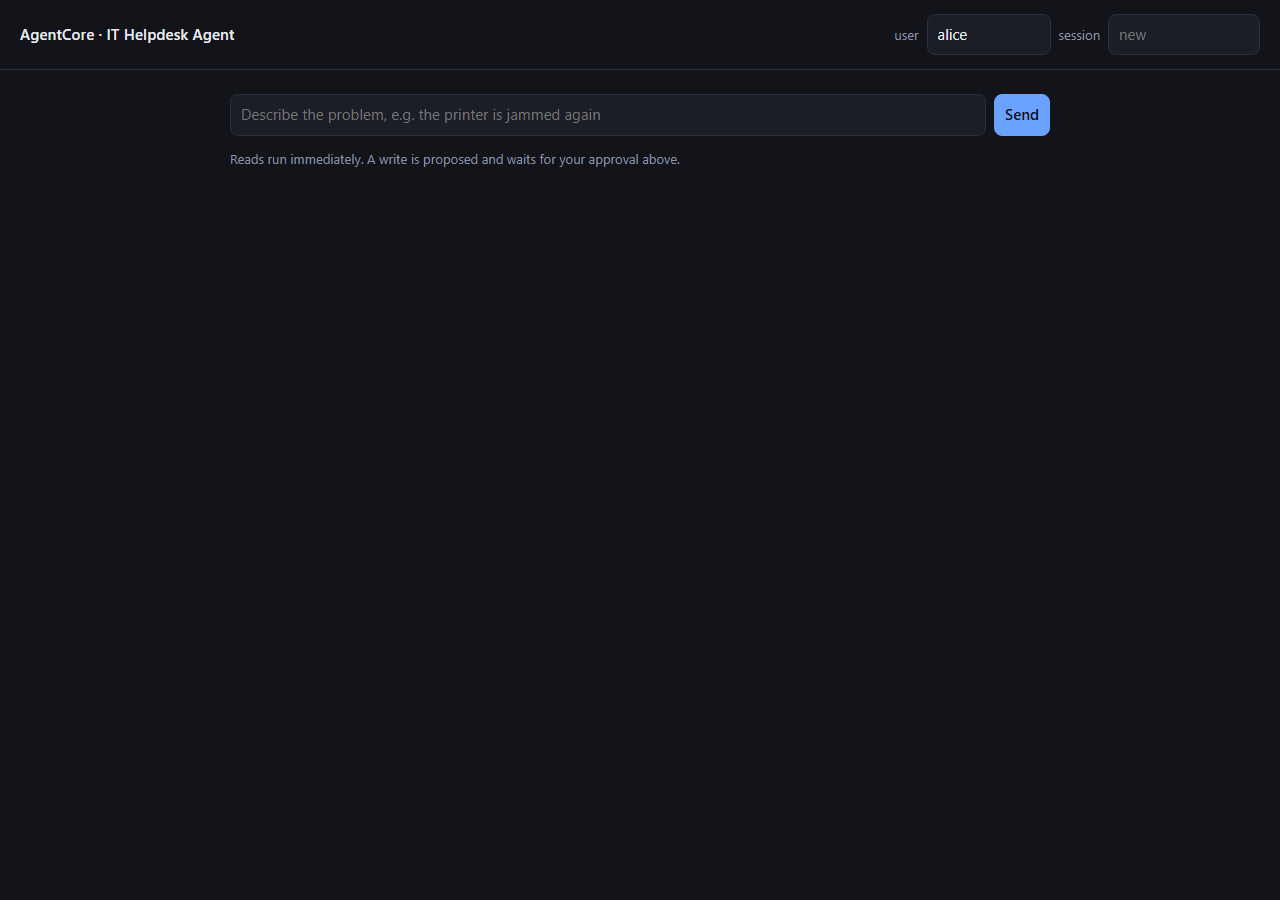
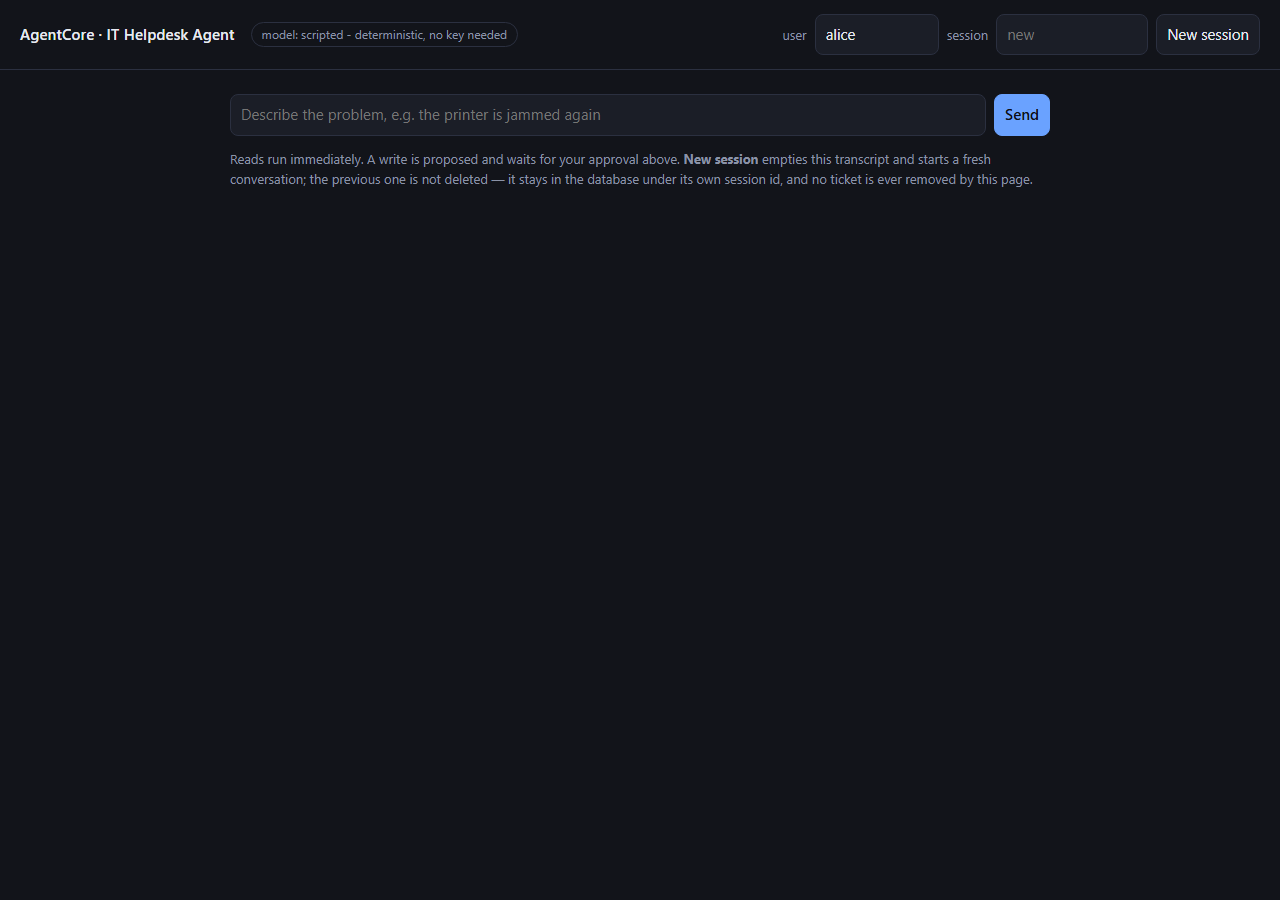
Fix the transcript order, and say which model is answering
Reported from a screenshot of a real run, and both halves are real defects rather than opinions.

The transcript was built by prepending every turn, so it rendered newest-first: the newest exchange
appeared above the one before it, and - because an agent reply is rendered after the prompt it
answers - every tool row sat *above* the message that caused it. The result read as though the agent
had called the tool for the next question: the turn for "find tickets about the vpn" displayed a
`get_ticket TCK-1002` call, and the turn for "What is the status of TCK-1002?" displayed the printer
search. The backend was correct throughout; the page was lying about it, which is worse than an
empty transcript, because a wrong tool row looks like a wrong tool choice.

Turns are now appended, in the order a conversation is read, and a new turn scrolls itself into
view. Verified by driving the page with the capture task in `devtasks` - which asserts each step
rather than only photographing it - and by reading the regenerated frames back.

The page also had no way to start a clean conversation, although HOW-TO-TEST.md told the reader to
click "new session". Added: a **New session** button that empties the transcript and mints a new
session id. It deletes nothing - the previous conversation keeps its id and stays in the database,
and no ticket is touched, because the agent has no tool that deletes one. The answer to "can I
[…]

diff --git a/services/agent/src/agent_service/ui/page.py b/services/agent/src/agent_service/ui/page.py
@@ -97,17 +97,27 @@ INDEX_HEAD = """<!DOCTYPE html>
   .approval .row { display: flex; gap: 8px; margin-top: 10px; }
   .banner { border-radius: 8px; padding: 10px 12px; margin: 14px 0; border: 1px solid var(--bad); color: var(--bad); font-size: 14px; }
   .hint { color: var(--muted); font-size: 13px; }
+  .chip { font-size: 12px; color: var(--muted); border: 1px solid var(--line); border-radius: 999px; padding: 2px 10px; white-space: nowrap; }
   [hidden] { display: none !important; }
 </style>
 </head>
 <body>
 <header>
   <h1>AgentCore &middot; IT Helpdesk Agent</h1>
+  <!-- Which model is answering, filled from /api/info on load. Without it a reviewer reads the
+       deterministic provider's canned sentences and has no way to tell them from a real model's -
+       the wrong conclusion to leave someone with, since the provider is one environment variable
+       away from a live one (README section c). -->
+  <span id="model" class="chip" hidden>model: &hellip;</span>
   <div class="who">
     <label for="user">user</label>
     <input id="user" value="alice" size="10" autocomplete="off">
     <label for="session">session</label>
     <input id="session" value="" size="14" placeholder="new" autocomplete="off">
+    <!-- Starts a fresh conversation: clears the transcript on screen and mints a new session id.
+         It deletes nothing on the server, and it cannot delete a ticket, because the agent has no
+         tool that deletes one. -->
+    <button type="button" id="newsession">New session</button>
   </div>
 </header>
 
@@ -125,7 +135,10 @@ INDEX_HEAD = """<!DOCTYPE html>
          when there is nothing to stop, and the 404 that follows reads like a broken button. -->
     <button class="bad" type="button" id="cancel" hidden>Cancel</button>
   </form>
-  <p class="hint">Reads run immediately. A write is proposed and waits for your approval above.</p>
+  <p class="hint">Reads run immediately. A write is proposed and waits for your approval above.
+    <strong>New session</strong> empties this transcript and starts a fresh conversation; the
+    previous one is not deleted — it stays in the database under its own session id, and no ticket
+    is ever removed by this page.</p>
 </main>
 """
 #: The script, kept separate from the markup only so the two are readable in one file each.
@@ -147,6 +160,8 @@ INDEX_SCRIPT = r"""
   var sessionField = document.getElementById("session");
   var sendButton = form.querySelector("button[type=submit]");
   var cancelButton = document.getElementById("cancel");
+  var newSessionButton = document.getElementById("newsession");
+  var modelChip = document.getElementById("model");
 
   // A session id is minted here rather than left for the server to assign, because cancelling
   // needs to name the conversation *while* the turn is running — and until the response arrived
@@ -251,7 +266,19 @@ INDEX_SCRIPT = r"""
       if (bits.length) turn.appendChild(el("div", "meta", bits.join(" - ")));
     }
 
-    transcript.insertBefore(turn, transcript.firstChild);
+    appendTurn(turn);
+  }
+
+  // Appended, not prepended, so the transcript reads top to bottom the way a conversation does.
+  // This used to insert before the first child, which put every new turn at the *top*: the newest
+  // exchange appeared above the one before it, and - because a reply is rendered after the prompt
+  // it answers - each agent block sat above the message that caused it. The transcript read as
+  // though the agent had answered the *next* question, which is how it was reported: "why do we
+  // have history down-up?" A tool row under the wrong prompt is worse than no transcript at all,
+  // because it looks like the agent called the wrong tool.
+  function appendTurn(turn) {
+    transcript.appendChild(turn);
+    turn.scrollIntoView({ block: "end" });
   }
 
   function renderApproval(proposal) {
@@ -291,7 +318,7 @@ INDEX_SCRIPT = r"""
         if (result.replayed) {
           turn.appendChild(el("div", "meta", "The backend reported this was already done."));
         }
-        transcript.insertBefore(turn, transcript.firstChild);
+        appendTurn(turn);
       }).catch(function (error) {
         approve.disabled = false;
         decline.disabled = false;
@@ -374,8 +401,41 @@ INDEX_SCRIPT = r"""
     }
   });
 
+  // A fresh conversation: an empty transcript and a new session id. Nothing is deleted - the
+  // previous conversation keeps its id and is still readable by setting the session field back to
+  // it - and no ticket is touched, because removing a ticket is not something this agent can do.
+  newSessionButton.addEventListener("click", function () {
+    clearError();
+    transcript.textContent = "";
+    pending.textContent = "";
+    sessionField.value = mintSession();
+    loadPending();
+    message.focus();
+  });
+
+  // Which model is answering, so the deterministic provider's sentences are not mistaken for the
+  // product's best effort. Silent on failure and the chip stays hidden: the page has to work
+  // whether or not this endpoint exists.
+  async function loadInfo() {
+    try {
+      var info = await json("api/info");
+      var label = info.provider;
+      if (info.deterministic) {
+        label += " - deterministic, no key needed";
+      } else if (info.model_id) {
+        label += " - " + info.model_id;
+      }
+      modelChip.textContent = "model: " + label;
+      modelChip.title = info.detail || "";
+      modelChip.hidden = false;
+    } catch (error) {
+      modelChip.hidden = true;
+    }
+  }
+
   userField.addEventListener("change", loadPending);
   loadPending();
+  loadInfo();
   message.focus();
 })();
 </script>

diff --git a/services/agent/src/agent_service/api/ui_routes.py b/services/agent/src/agent_service/api/ui_routes.py
@@ -1,7 +1,7 @@
-"""The two routes the page needs that the contract does not already provide.
+"""The routes the page needs that the contract does not already provide.
 
 Sending a message and answering a proposal are both already in the Runtime contract, so the page
-calls them directly and this module has almost nothing to add. Only two things were missing, and
+calls them directly and this module has almost nothing to add. Only three things were missing, and
 each had a reason.
 
 **``GET /`` serves the page.** Inline rather than mounted from a directory: the HTML is a Python
@@ -20,6 +20,12 @@ defining a second shape for a proposal. Two shapes for one thing is how a field 
 of them and not the other, and the page would then render a proposal differently depending on
 which endpoint produced it.
 
+**``GET /api/info`` says which model is answering.** Also for a person rather than for a machine:
+the default provider is deterministic, so its replies are canned by design, and without this the
+page gives a reader no way to know that the wording is a rule rather than a model — or that a real
+model is one environment variable away. It reports the provider, the model if one is named, and
+whether a credential is present; it reports no credential itself.
+
 The handler is injected exactly as the invocation and decision handlers are, so this module can be
 tested without a database and the app still starts without one.
 """
@@ -28,7 +34,7 @@ from __future__ import annotations
 
 from collections.abc import Awaitable, Callable, Sequence
 
-from fastapi import APIRouter, Query
+from fastapi import APIRouter, Query, Request
 from fastapi.responses import HTMLResponse, JSONResponse
 from pydantic import BaseModel, ConfigDict
 
@@ -50,8 +56,46 @@ class ApprovalList(BaseModel):
     approvals: list[PendingApproval] = []
 
 
+class ServiceInfo(BaseModel):
+    """Which model is answering, for the page's own header.
+
+    Added because the default provider is deterministic. A reviewer who does not know that reads
+    canned sentences — "Done. I used 1 tool call(s) to answer." — and has no way to tell them from
+    a live model's, so the page says it outright, and says how to change it. That is the same
+    answer the README gives, shown where the question is actually asked.
+    """
+
+    model_config = ConfigDict(extra="ignore")
+
+    provider: str
+    model_id: str | None = None
+    #: True when the provider answers from rules in this repository rather than from a model.
+    deterministic: bool
+    #: The providers that would work right now — credential-free ones, or ones whose key is set.
+    configured: list[str] = []
+    detail: str
+
+
 #: Lists a user's outstanding proposals. Supplied by the wiring layer, like the other handlers.
 PendingApprovalListing = Callable[[str], Awaitable[Sequence[PendingApproval]]]
+
+#: Providers that answer from rules recorded in the repository. Not "not real" — they are what
+#: makes the evals reproducible and free — but they do not reason, and the page should not imply
+#: they do.
+DETERMINISTIC_PROVIDERS = frozenset({"scripted", "replay"})
+
+_DETERMINISTIC_NOTE = (
+    "No language model is connected. AGENT_MODEL_PROVIDER=scripted answers from fixed rules in "
+    "this repository, which is what makes the eval suite deterministic and free to run on every "
+    "commit. To have a model choose the tools and answer, set AGENT_MODEL_PROVIDER to anthropic, "
+    "openai, openai_compatible or bedrock with the matching credential set, then recreate the "
+    "agent container. See README section c and HOW-TO-TEST.md section 6."
+)
+
+_LIVE_NOTE = (
+    "A model chooses the tools. Which one is set by AGENT_MODEL_PROVIDER and AGENT_MODEL_ID, read "
+    "once when the process starts."
+)
 
 
 class ListingNotConfiguredError(RuntimeError):
@@ -100,5 +144,35 @@ def create_ui_router(listing: PendingApprovalListing | None = None) -> APIRouter
                 status_code=501,
                 content={"error": {"kind": "NotImplemented", "detail": str(exc)}},
             )
+
+    @router.get("/api/info", response_model=ServiceInfo)
+    async def info(request: Request) -> ServiceInfo:
+        """Report which provider is in force. Read-only, and it never fails.
+
+        Read from ``app.state.settings``, which `create_app` sets, so there is no extra wiring and
+        an app built without settings still answers rather than 500s — the page must render whether
+        or not this works, and the chip simply stays hidden if it does not.
+
+        Deliberately not part of the Runtime contract: it exists for a person looking at the page,
+        and it says nothing about the conversation, the user or any credential beyond *whether* one
+        is present for a provider that needs it.
+        """
+        settings: object = getattr(request.app.state, "settings", None)
+        provider = str(getattr(settings, "agent_model_provider", "") or "unknown")
+        model_id = str(getattr(settings, "agent_model_id", "") or "")
+        configured: list[str] = []
+        if settings is not None:
+            described = getattr(settings, "configured_providers", None)
+            if callable(described):
+                configured = [str(name) for name in described()]
+
+        deterministic = provider in DETERMINISTIC_PROVIDERS
+        return ServiceInfo(
+            provider=provider,
+            model_id=model_id or None,
+            deterministic=deterministic,
+            configured=configured,
+            detail=_DETERMINISTIC_NOTE if deterministic else _LIVE_NOTE,
+        )
 
     return router

diff --git a/HOW-TO-TEST.md b/HOW-TO-TEST.md
@@ -8,6 +8,24 @@ Nothing here needs an API key, a model account or a network connection. The defa
 is a deterministic one that runs locally (`scripted`), so the same message always produces the same
 behaviour.
 
+**Read this before judging the answers.** `scripted` is not a language model. It matches your
+prompt against a short, ordered list of rules
+(`services/agent/src/agent_service/providers/scripted.py`) and returns the tool call those rules
+name — that is what makes the 22 eval cases reproducible and free to run on every commit. So its
+prose is canned (*"Done. I used 1 tool call(s) to answer."*) and it will not reason about a question
+no rule covers. **That is the provider, not the architecture:** the agent is built against a
+provider interface with six implementations, and pointing it at a real model is one environment
+variable and a container recreate — `AGENT_MODEL_PROVIDER=anthropic` with `ANTHROPIC_API_KEY` set,
+see §6 and README section c. The page's header says which provider is answering
+(`model: scripted - deterministic, no key needed`), so the two are never confused, and hovering it
+says how to switch.
+
+**What is genuinely rule-based and what is not.** The tool choice, the approval gate, the error
+handling, the retry policy, the idempotency ledger and the memory extraction are ordinary code, and
+they behave identically whichever provider is in force — that is the part this assignment is about,
+and it is tested directly. Only the choice of *which* tool a sentence calls and the wording of the
+reply come from the provider, and only there does a real model change the result.
+
 ---
 
 ## 0. What you need
@@ -85,9 +103,11 @@ What you are looking at:
 | Element | What it is |
 |---|---|
 | **Your name** (top left) | the `user_id` every request is scoped to. Memory is per user, so changing it starts a clean slate |
-| **Session** (top right) | the conversation id. The same value resumes the same conversation; `new session` starts another one |
+| **Model** (top left) | which provider is answering — `scripted` (deterministic rules, no key) or the model you configured. Hover it for how to change it |
+| **Session** (top right) | the conversation id. The same value resumes the same conversation; the box is editable, so you can type an old id to go back to it |
+| **New session** (top right) | empties the transcript and starts a fresh conversation. It deletes nothing: the previous conversation stays in the database under its own session id |
 | **Message box** | type here and press **Send** (or Enter) |
-| **Transcript** | the conversation, with every tool call the agent made shown as a row: tool name, arguments, outcome, how long it took |
+| **Transcript** | the conversation, oldest at the top, with every tool call the agent made shown as a row under the reply it belongs to: tool name, arguments, outcome, how long it took |
 | **Approval card** | appears when the agent wants to *write* something. It shows the exact tool and arguments, and has **Approve** / **Decline** |
 
 Nothing is written to the ticketing system until you press **Approve** on a card. That is the point

diff --git a/docs/media/README.md b/docs/media/README.md
@@ -13,11 +13,17 @@ trust. The driver is [`devtasks/chrome.py`](../../devtasks/chrome.py); the seque
 
 | File | What it shows |
 |---|---|
-| [`01-loaded.png`](01-loaded.png) | The page at `localhost:8080/`, before anything is typed: user `alice`, a freshly minted session, and the note that reads run immediately while a write is proposed and waits. |
+| [`01-loaded.png`](01-loaded.png) | The page at `localhost:8080/`, before anything is typed: user `alice`, a freshly minted session, the **New session** control, the note that reads run immediately while a write is proposed and waits, and the header's model chip — `scripted - deterministic, no key needed`. The chip says outright that the wording comes from rules rather than a model, and hovering it says how to switch; without it these frames would look like a live model's output. |
 | [`02-read.png`](02-read.png) | **A read.** "find tickets about the printer" → `search_tickets {"q":"printer"}` → *1 of 1 matching ticket(s) on page 1*, in two steps. The call, its arguments and its result are all on screen. |
 | [`03-proposed-write.png`](03-proposed-write.png) | **A proposed write, waiting.** The agent has proposed `create_ticket` and stopped. The card shows the exact arguments that would be sent, an expiry, and the two buttons. Nothing has been written — the ticket does not exist until the next frame. |
 | [`04-approved-write.png`](04-approved-write.png) | **The approval, executed.** After clicking *Approve and run*: a `WRITE EXECUTED` turn reading *Created ticket TCK-1025.*, and the proposal card is gone. |
 | [`05-failure-handled.png`](05-failure-handled.png) | **A failure, handled.** With the mock failing every request, the read comes back as a red `search_tickets` with *the ticketing API is rate limiting this client. This was attempted 4 times and has been given up on rather than retried further.* — and the agent says so in words rather than pretending it worked. |
+
+In every frame the transcript reads **oldest at the top**, with each tool call as a row under the
+reply it belongs to. That ordering is worth stating because it was wrong until this page change: the
+transcript was built by prepending each turn, so the newest exchange appeared at the top and every
+tool row sat above the prompt that caused it — which read as the agent having answered the *next*
+question. Frames `01`–`05` were all regenerated after the fix, so they show one consistent UI.
 
 ## The eval output
 

diff --git a/README.md b/README.md
@@ -44,6 +44,7 @@ passes. Then:
 | | |
 |---|---|
 | **The page** | http://localhost:8080/ — type a problem, watch the tool calls, approve or decline |
+| Which model answers | shown in the page header; `scripted` by default (deterministic rules, no key), one environment variable away from a live model — section c below |
 | Agent contract | `POST http://localhost:8080/invocations` |
 | Agent health | `GET http://localhost:8080/ping` |
 | Ticketing mock | http://localhost:8000/docs |
